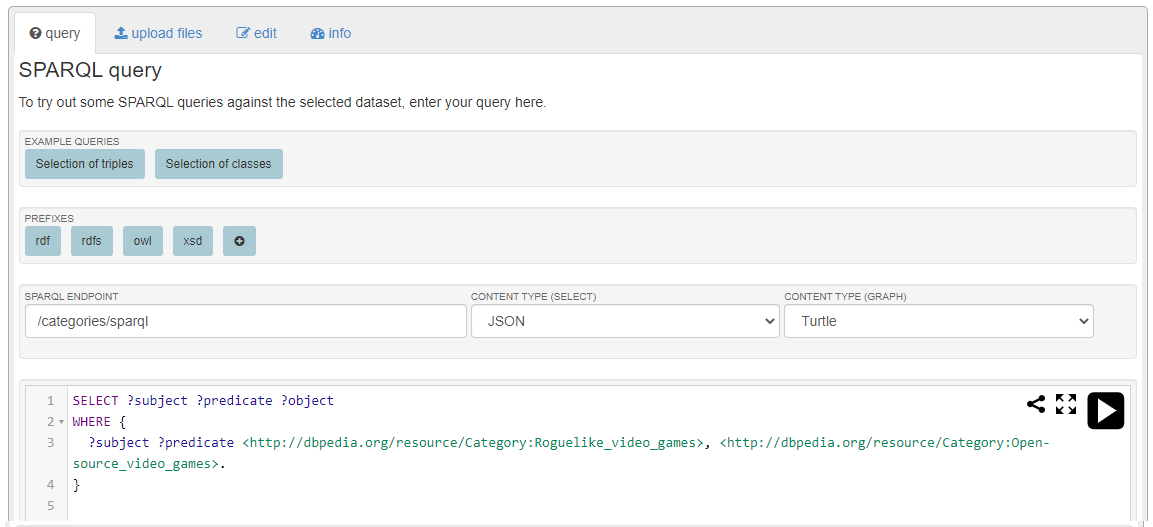
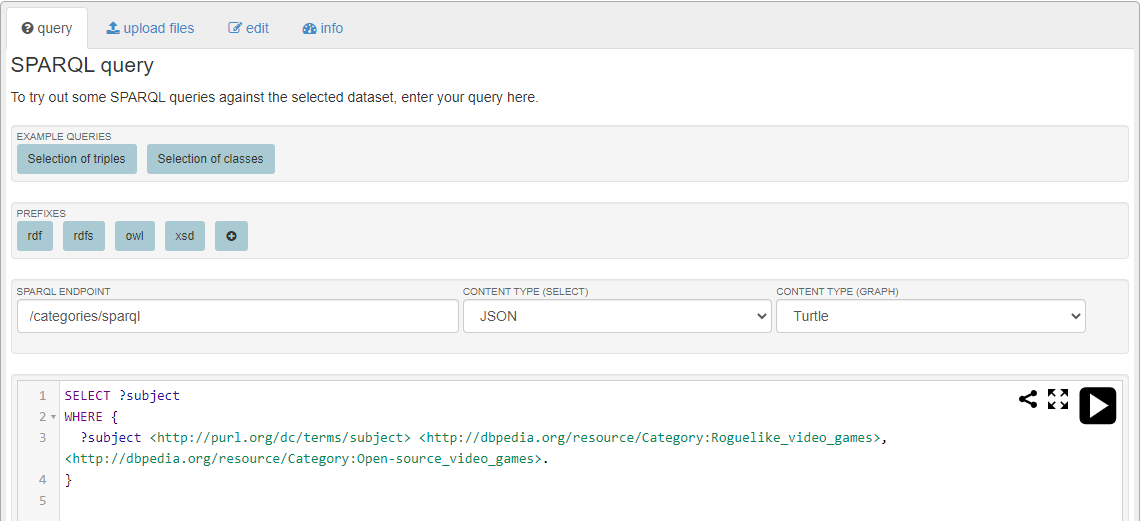
updating fuseki examples + librdf examples

diff --git a/ld42021/pres.md b/ld42021/pres.md
@@ -33,7 +33,7 @@ marp: true
 
 # Non-Goals
 
- - Walk through step by step setting up software
+ - Walk through step by step setting up software in great detail
  - Go over all the available software working with Linked Data
  - Go over features of application and libraries in depth
 
@@ -157,7 +157,7 @@ Shared Library Dependencies
  - These need to be installed before you are able to use them
  - Every programming language will handle this differently
    - External commands
-   - Build systems
+   - Build systems/file based package managers
 
 ---
 
@@ -409,14 +409,16 @@ endpoint = SPARQLWrapper("http://localhost:3030/categories/sparql")
 
 endpoint.setReturnFormat(JSON)
 
-endpoint.setQuery("""SELECT ?subject ?predicate ?object
+endpoint.setQuery("""SELECT ?subject
                      WHERE {
-                         ?subject ?predicate <http://dbpedia.org/resource/Category:Roguelike_video_games>, <http://dbpedia.org/resource/Category:Open-source_video_games>.
+                         ?subject
+                         <http://purl.org/dc/terms/subject>
+                         <http://dbpedia.org/resource/Category:Roguelike_video_games>, <http://dbpedia.org/resource/Category:Open-source_video_games>.
                      }""")
-                   
+
 result = endpoint.query().convert()
 
-print(json.dumps(result, indent=4))
+print(json.dumps(result, indent=2))
 ```
 
 ---
@@ -429,31 +431,33 @@ And get results like the following
 {
   "head": {
     "vars": [
-      "subject",
-      "predicate",
-      "object"
+      "subject"
     ]
   },
   "results": {
     "bindings": [
       {
-        "predicate": {
-          "type": "uri",
-          "value": "http://purl.org/dc/terms/subject"
-        },
         "subject": {
           "type": "uri",
           "value": "http://dbpedia.org/resource/Angband_(video_game)"
         }
       },
       {
-        "predicate": {
-          "type": "uri",
-          "value": "http://purl.org/dc/terms/subject"
-        },
         "subject": {
           "type": "uri",
           "value": "http://dbpedia.org/resource/Cataclysm:_Dark_Days_Ahead"
+        }
+      },
+      {
+        "subject": {
+          "type": "uri",
+          "value": "http://dbpedia.org/resource/DRL_(video_game)"
+        }
+      },
+      {
+        "subject": {
+          "type": "uri",
+          "value": "http://dbpedia.org/resource/Dungeon_Crawl_Stone_Soup"
         }
       },
   ...
